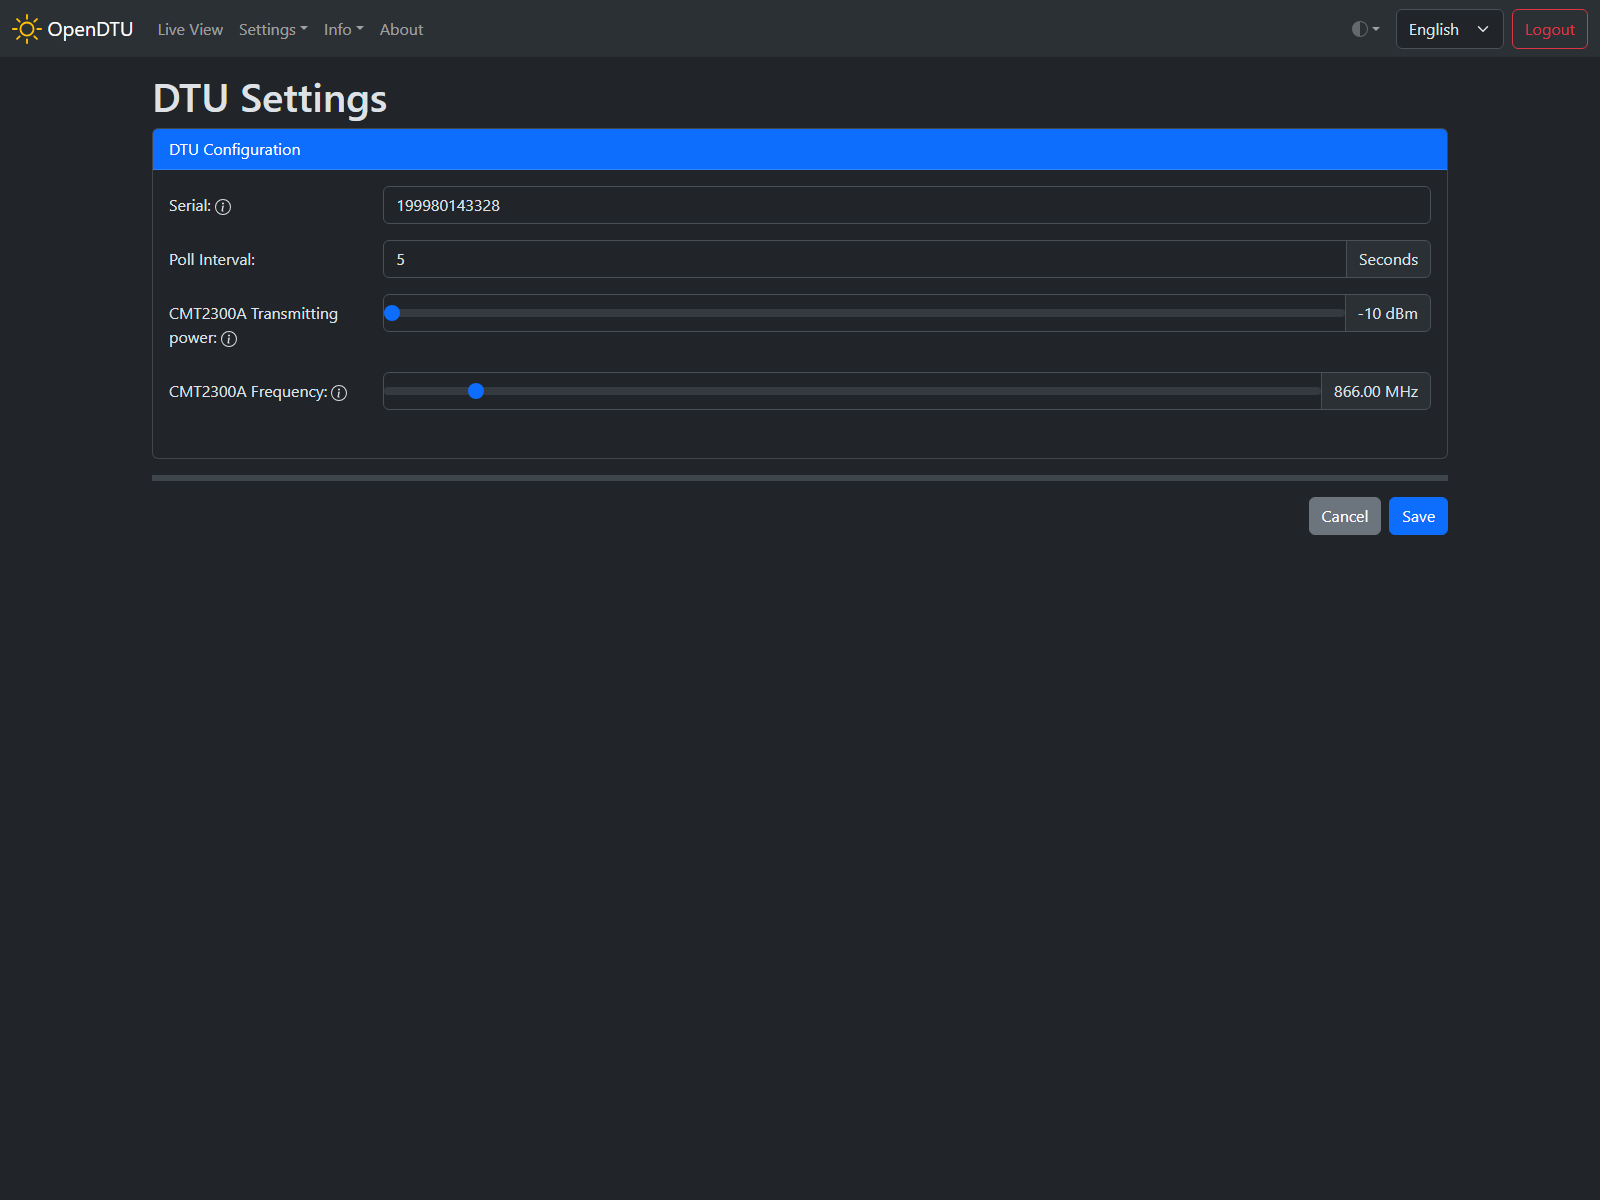
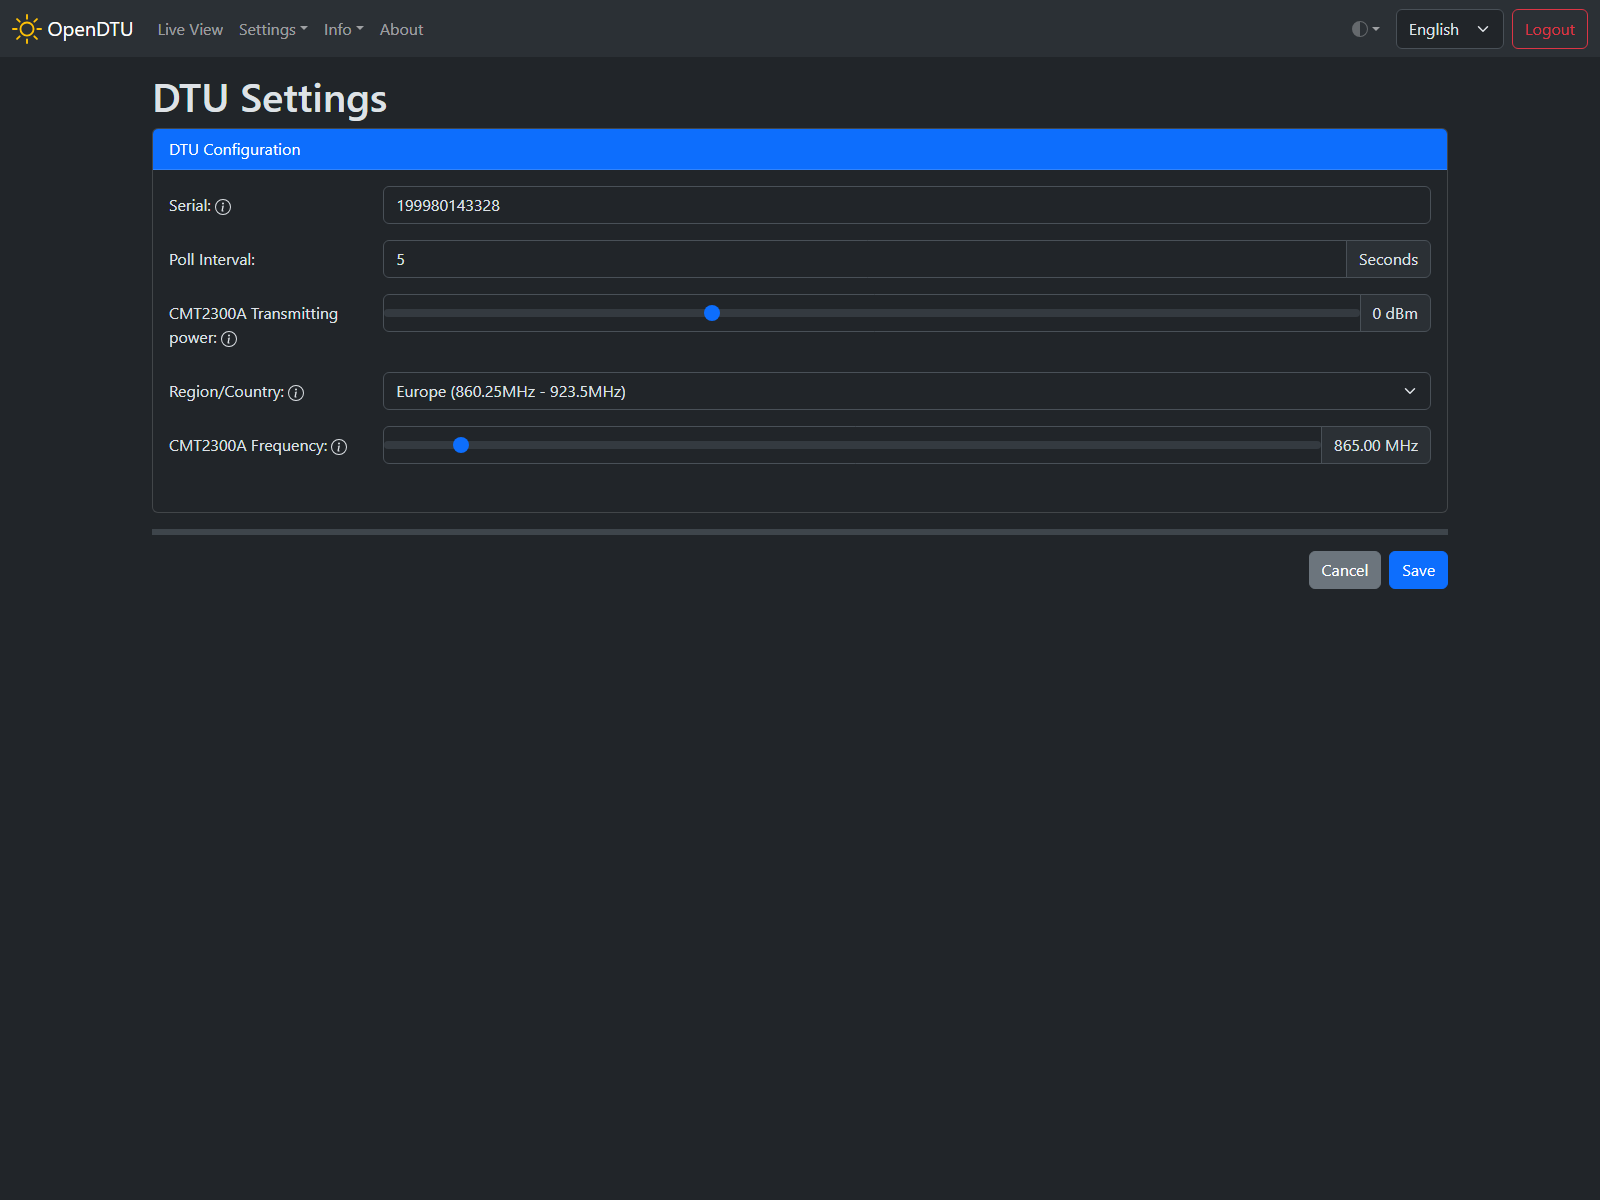
Added documentation regarding country/region setting

diff --git a/docs/firmware/configuration/dtu_settings.md b/docs/firmware/configuration/dtu_settings.md
@@ -40,11 +40,14 @@ Possible values:
 
 Please see [NRF24 Transmitting power](#nrf24-transmitting-power). There is a more granular setting option.
 
+#### CMT2300A Region/Country :material-form-dropdown:{title="Dropdown"}
+
+This setting affects the frequency selection below and also changes the band configuration of the CMT2300A module.
+
 #### CMT2300A frequency :material-tune-variant:{title="Slider"}
 
 After starting an HMS/HMT inverter (or after 15 minutes without communication), it listens on a frequency of 865 MHz in Europe or 915 MHz for US devices (-NA).
-In Europe, the DTU must change this frequency before further communication. This is the value that can be set here. If communication with the inverter is not possible, it is possible that radio communication is already taking place on the corresponding frequency. In this case, the value must be adjusted slightly.
-For US devices, this value must be permanently set to 915 MHz.
+The DTU must change this frequency before further communication. This is the value that can be set here. If communication with the inverter is not possible, it is possible that radio communication is already taking place on the corresponding frequency. In this case, the value must be adjusted slightly.
 
 !!! warning "Warning"
 

diff --git a/docs/hardware/inverter_overview.md b/docs/hardware/inverter_overview.md
@@ -4,7 +4,7 @@
     Compatibility with OpenDTU is most likly related to the serial number of the inverter. Current findings indicate that TSUN inverters with a serial number starting with "11" are supported, whereby inverters with a serial number starting with "10" are not.
 
 !!! note "Hoymiles HMS-xxxx-xT-NA compatibility remark"
-    Currently it seems not to be possible to change the communication frequency of the "-NA" inverters. Please set the communication freuqency to 915MHz to get these inverters working.
+    You have to change the Country/Region in the [DTU settings](../firmware/configuration/dtu_settings.md#cmt2300a-regioncountry).
 
 | Model                | Required RF Module | DC Inputs | MPP-Tracker | AC Phases |
 | ---------------------| ------------------ | :-------: | :---------: | :-------: |
